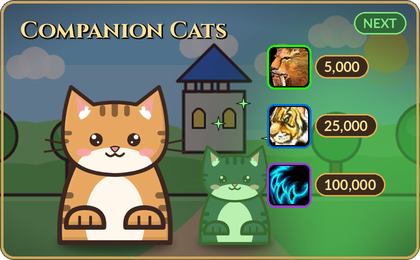
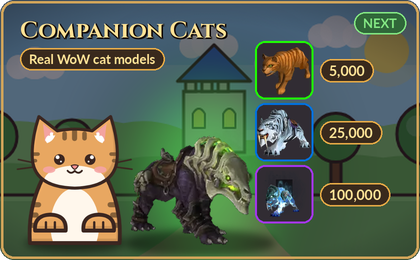
Roadmap: the Companion Cats card shows real WoW cat models
Claude-Session: https://claude.ai/code/session_01U7bL86WiBjVd5hPPXRdknB

diff --git a/tools/make_roadmap.py b/tools/make_roadmap.py
@@ -49,26 +49,39 @@ def tint(im, color, amount=0.55):
 
 
 # ------------------------------------------------------------------------------ the cards
+def wow_model(display, height):
+    """a render of a real WoW creature model (Wowhead's model viewer thumbnail for that display id),
+    transparent, cropped and scaled to height: the cats the addon shows with SetDisplayInfo"""
+    import urllib.request
+    os.makedirs(mc.ICONS, exist_ok=True)
+    p = os.path.join(mc.ICONS, "model_%d.webp" % display)
+    if not os.path.exists(p):
+        url = "https://wow.zamimg.com/modelviewer/live/webthumbs/npc/%d/%d.webp" % (display % 256, display)
+        open(p, "wb").write(urllib.request.urlopen(url, timeout=20).read())
+    im = Image.open(p).convert("RGBA")
+    im = im.crop(im.getbbox())
+    return im.resize((round(im.width * height / im.height), height), Image.LANCZOS)
+
+
 def card_companions():
     im = zone("elwynn")
-    shade = Image.new("RGBA", im.size, (10, 6, 20, 120)); im.alpha_composite(shade)
-    glow(im, (CW * 0.55, CH * 0.1, CW * 1.05, CH * 1.1), (80, 255, 90), 70, 0.45)
-    # your cat, and a companion cat beside it (a smaller cat with a fel glow)
-    shadow(im, 230, CH - 34, 230)
-    paste(im, cat_image({"fur": "fur_ginger"}, 320), 230, CH - 30)
-    comp = tint(ImageOps.mirror(cat_image({"fur": "fur_midnight"}, 200)), (60, 230, 70), 0.35)
-    shadow(im, 470, CH - 34, 150)
-    paste(im, comp, 470, CH - 30)
-    for x, y in ((420, 230), (520, 260), (470, 190)):
-        im.alpha_composite(sprite("sparkle", 34, (140, 255, 140)), (x, y))
-    # price tags for the cats you can buy
-    for i, (n, price, ring) in enumerate((("Ability_Hunter_Pet_Cat", "5,000", (30, 255, 0)),
-                                          ("Ability_Mount_JungleTiger", "25,000", (0, 112, 221)),
-                                          ("Ability_Druid_CatForm", "100,000", (163, 53, 238)))):
-        y = 96 + i * 118
-        icon_tile(im, n, CW - 300, y, 76, ring=ring)
-        tag(im, price, (CW - 210, y + 14), size=28)
+    shade = Image.new("RGBA", im.size, (10, 6, 20, 140)); im.alpha_composite(shade)
+    glow(im, (CW * 0.28, CH * 0.25, CW * 0.72, CH * 1.05), (80, 255, 90), 70, 0.5)
+    # your cat, and its companion: a real WoW Felsaber
+    shadow(im, 150, CH - 34, 200)
+    paste(im, cat_image({"fur": "fur_ginger"}, 260), 150, CH - 30)
+    shadow(im, 400, CH - 34, 300)
+    paste(im, ImageOps.mirror(wow_model(67575, 250)), 400, CH - 30)
+    # cats you can buy (real WoW models) and their prices
+    for i, (disp, price, ring) in enumerate(((5554, "5,000", (30, 255, 0)), (6080, "25,000", (0, 112, 221)),
+                                             (21973, "100,000", (163, 53, 238)))):
+        y = 88 + i * 124
+        d = ImageDraw.Draw(im)
+        d.rounded_rectangle([CW - 330, y - 6, CW - 214, y + 110], 20, fill=(16, 12, 20, 220), outline=ring, width=4)
+        paste(im, wow_model(disp, 96), CW - 272, y + 102)
+        tag(im, price, (CW - 200, y + 30), size=28)
     label(im, "Companion Cats", (40, 30), 46)
+    tag(im, "Real WoW cat models", (40, 96), size=26)
     coming(im, "Next")
     return im
 

diff --git a/ROADMAP.md b/ROADMAP.md
@@ -11,7 +11,7 @@ What we're building next for your cat, what comes after that, and ideas we're st
 ### Companion Cats
 ![Companion Cats](media/roadmap_companions.png)
 
-Real WoW cats as companions for every cat, not only Hunters.
+Real WoW cat models as companions for every cat, not only Hunters. WoW has a lot of them: house cats, sabers, lynxes, the Felsaber, the Spectral Tiger and more. These are the game's own 3D models, not drawings.
 - A new companion slot on the character panel.
 - Buy companions with TapCoins: the cheapest from 5,000, the rarest (fel and glowing cats) up to 100,000.
 - Some can only be earned by beating big dungeons and raids in Adventure.
